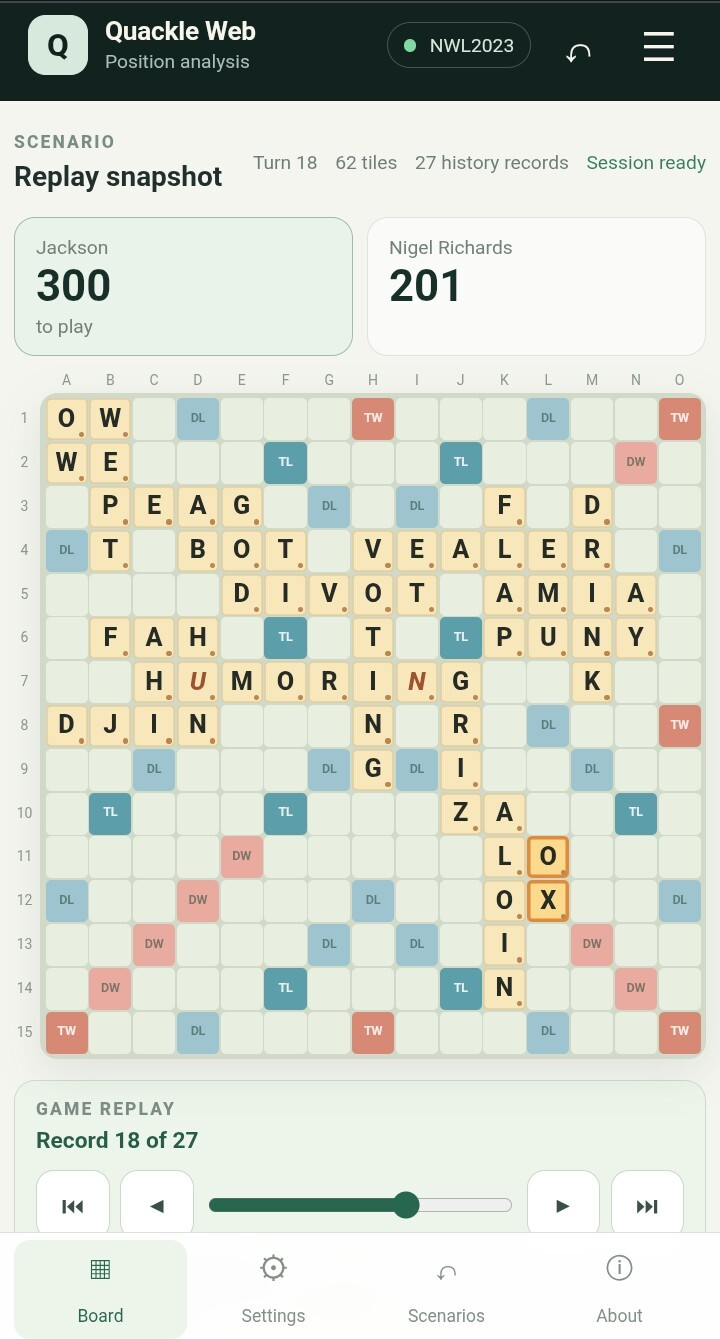
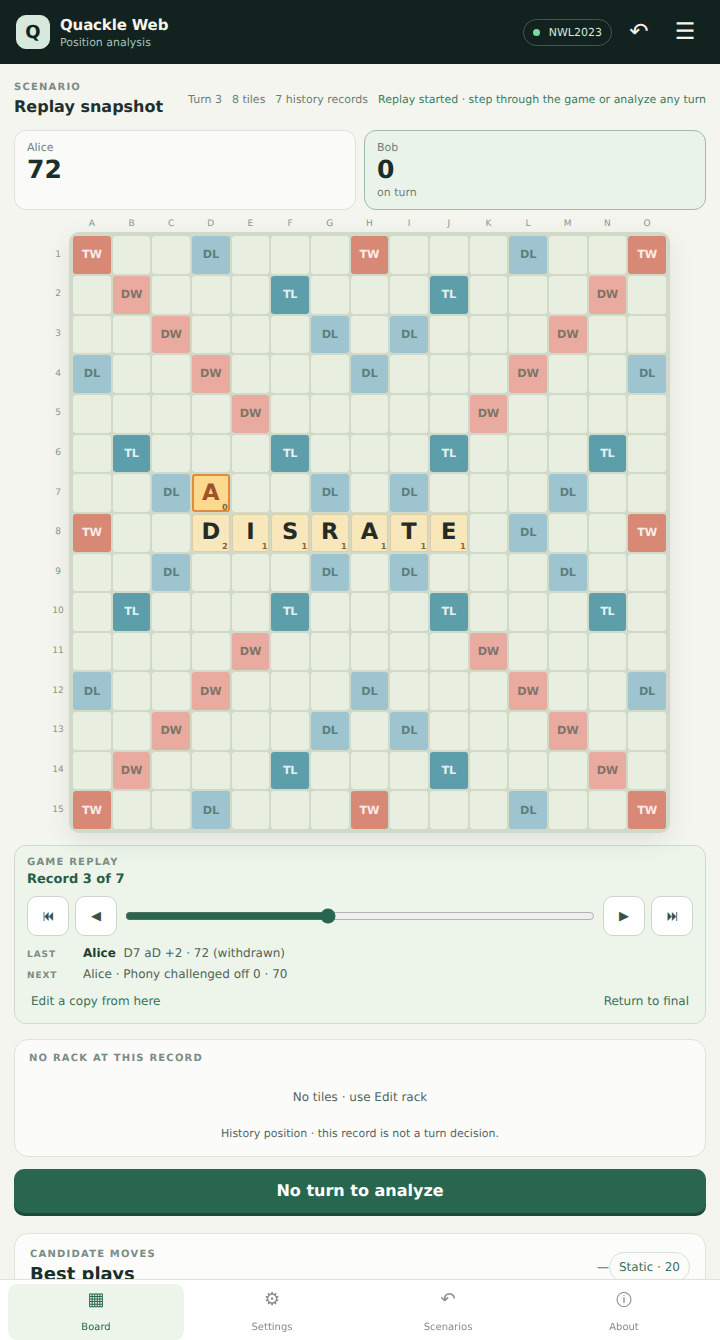
Show board tile values and refresh replay screenshot

diff --git a/product/web/src/main.tsx b/product/web/src/main.tsx
@@ -4099,6 +4099,11 @@ function App() {
                   {boardCells.map((index) => {
                     const cell = previewCells[index];
                     const isPreview = !visibleCells[index] && Boolean(cell);
+                    const tilePoints = cell
+                      ? cell.blank
+                        ? 0
+                        : (TILE_VALUES[cell.letter] ?? 0)
+                      : undefined;
                     const premium = classicPremiumAt(
                       Math.floor(index / SIZE),
                       index % SIZE,
@@ -4125,24 +4130,35 @@ function App() {
                         data-board-cell-index={index}
                         tabIndex={activeCellIndex === index ? 0 : -1}
                         disabled={isReplaying}
+                        aria-description={
+                          tilePoints === undefined
+                            ? undefined
+                            : `${tilePoints} point${tilePoints === 1 ? "" : "s"}`
+                        }
                         aria-label={`${positionFor(index)}${cell ? ` ${isPreview ? "preview " : ""}${cell.blank ? "blank " : ""}${cell.letter}` : " empty"}${premiumText ? `, ${premiumText}` : ""}`}
                       >
-                        {cell?.letter ??
-                          (!cell && premium !== "" ? (
-                            <small>
-                              {premium === "center"
-                                ? "★"
-                                : premium === "triple-word"
-                                  ? "TW"
-                                  : premium === "double-word"
-                                    ? "DW"
-                                    : premium === "triple-letter"
-                                      ? "TL"
-                                      : "DL"}
+                        {cell ? (
+                          <>
+                            <span class="board-tile-letter">{cell.letter}</span>
+                            <small class="board-tile-value" aria-hidden="true">
+                              {tilePoints}
                             </small>
-                          ) : (
-                            ""
-                          ))}
+                          </>
+                        ) : premium !== "" ? (
+                          <small>
+                            {premium === "center"
+                              ? "★"
+                              : premium === "triple-word"
+                                ? "TW"
+                                : premium === "double-word"
+                                  ? "DW"
+                                  : premium === "triple-letter"
+                                    ? "TL"
+                                    : "DL"}
+                          </small>
+                        ) : (
+                          ""
+                        )}
                       </button>
                     );
                   })}

diff --git a/product/web/tests/app.spec.ts b/product/web/tests/app.spec.ts
@@ -1544,9 +1544,18 @@ test("replays imported GCG records and returns to the editable final position", 
   await page.getByRole("button", { name: "Next" }).click();
   await expect(page.getByText("Record 1 of 7")).toBeVisible();
   await expect(page.getByRole("button", { name: "H8 A" })).toBeVisible();
+  const twoPointTile = page.getByRole("button", { name: "D8 D" });
+  await expect(twoPointTile.locator(".board-tile-value")).toHaveText("2");
+  await expect(twoPointTile).toHaveAttribute("aria-description", "2 points");
+  const onePointTile = page.getByRole("button", { name: "H8 A" });
+  await expect(onePointTile.locator(".board-tile-value")).toHaveText("1");
+  await expect(onePointTile).toHaveAttribute("aria-description", "1 point");
   await page.getByRole("button", { name: "Next" }).click();
   await page.getByRole("button", { name: "Next" }).click();
   await expect(page.getByRole("button", { name: "D7 blank A" })).toBeVisible();
+  const blankTile = page.getByRole("button", { name: "D7 blank A" });
+  await expect(blankTile.locator(".board-tile-value")).toHaveText("0");
+  await expect(blankTile).toHaveAttribute("aria-description", "0 points");
   await page.getByRole("button", { name: "Next" }).click();
   await expect(page.getByRole("button", { name: "D7 empty" })).toBeVisible();
   await page.getByRole("button", { name: "Return to final" }).click();

diff --git a/product/web/src/styles.css b/product/web/src/styles.css
@@ -446,14 +446,21 @@ select:focus-visible {
   color: #262b26;
   box-shadow: inset 0 0 0 1px rgba(85, 68, 34, 0.15);
 }
-.board-cell.occupied::after {
-  content: "";
+.board-tile-letter {
+  grid-area: 1 / 1;
+  line-height: 1;
+}
+.board-cell .board-tile-value {
   position: absolute;
-  inset: auto 2px 2px auto;
-  width: 3px;
-  height: 3px;
-  border-radius: 50%;
-  background: #bb8650;
+  inset: auto 2px 1px auto;
+  z-index: 1;
+  color: #826a3e;
+  font-size: max(6px, calc(var(--cell) * 0.22));
+  font-style: normal;
+  font-weight: 750;
+  letter-spacing: -0.03em;
+  line-height: 1;
+  text-transform: none;
 }
 .board-cell.blank-tile {
   color: #a0522d;

diff --git a/docs/ux.md b/docs/ux.md
@@ -60,8 +60,9 @@ ideas without copying the fixed Qt layout:
 - The board now uses the canonical classic premium layout, including triple
   letters; board editing has roving keyboard focus, across/down navigation,
   blank-letter selection, an in-app tile keyboard, rack editing/shuffle, and
-  Pointer Events drag from rack to board. Buttons are used for mobile tile entry
-  so editing does not summon the native keyboard.
+  Pointer Events drag from rack to board. Occupied tiles show their face-value
+  points at the lower right (zero for blanks), and buttons are used for mobile
+  tile entry so editing does not summon the native keyboard.
 - About/Legal is available from desktop and mobile and shows engine, lexicon,
   provenance/disclosure, offline behavior, and links to the data tools.
 - Imported GCG/Cross-Tables games replay by history record with both player

diff --git a/README.md b/README.md
@@ -8,7 +8,7 @@ and keyboard controls.
 
 ### Mobile game replay
 
-![The mobile workspace showing a 15×15 board and replay controls](screenshots/mobile-game-replay.jpg)
+![Mobile GCG replay with face-value points shown on board tiles](screenshots/mobile-game-replay.jpg)
 
 This repository is the public source and consumption slice. It intentionally does
 **not** contain hosted-service credentials, account-specific resource names,

diff --git a/CHANGELOG.md b/CHANGELOG.md
@@ -2,6 +2,8 @@
 
 ## Unreleased
 
+- Occupied board tiles now show their face-value points instead of a decorative
+  dot; blank tiles show zero.
 - Scenarios have editable browser-local names, and **Import game** is a first-
   class Scenarios action for GCG files and Cross-Tables URLs. Imports are
   validated and named before creating a new scenario.
